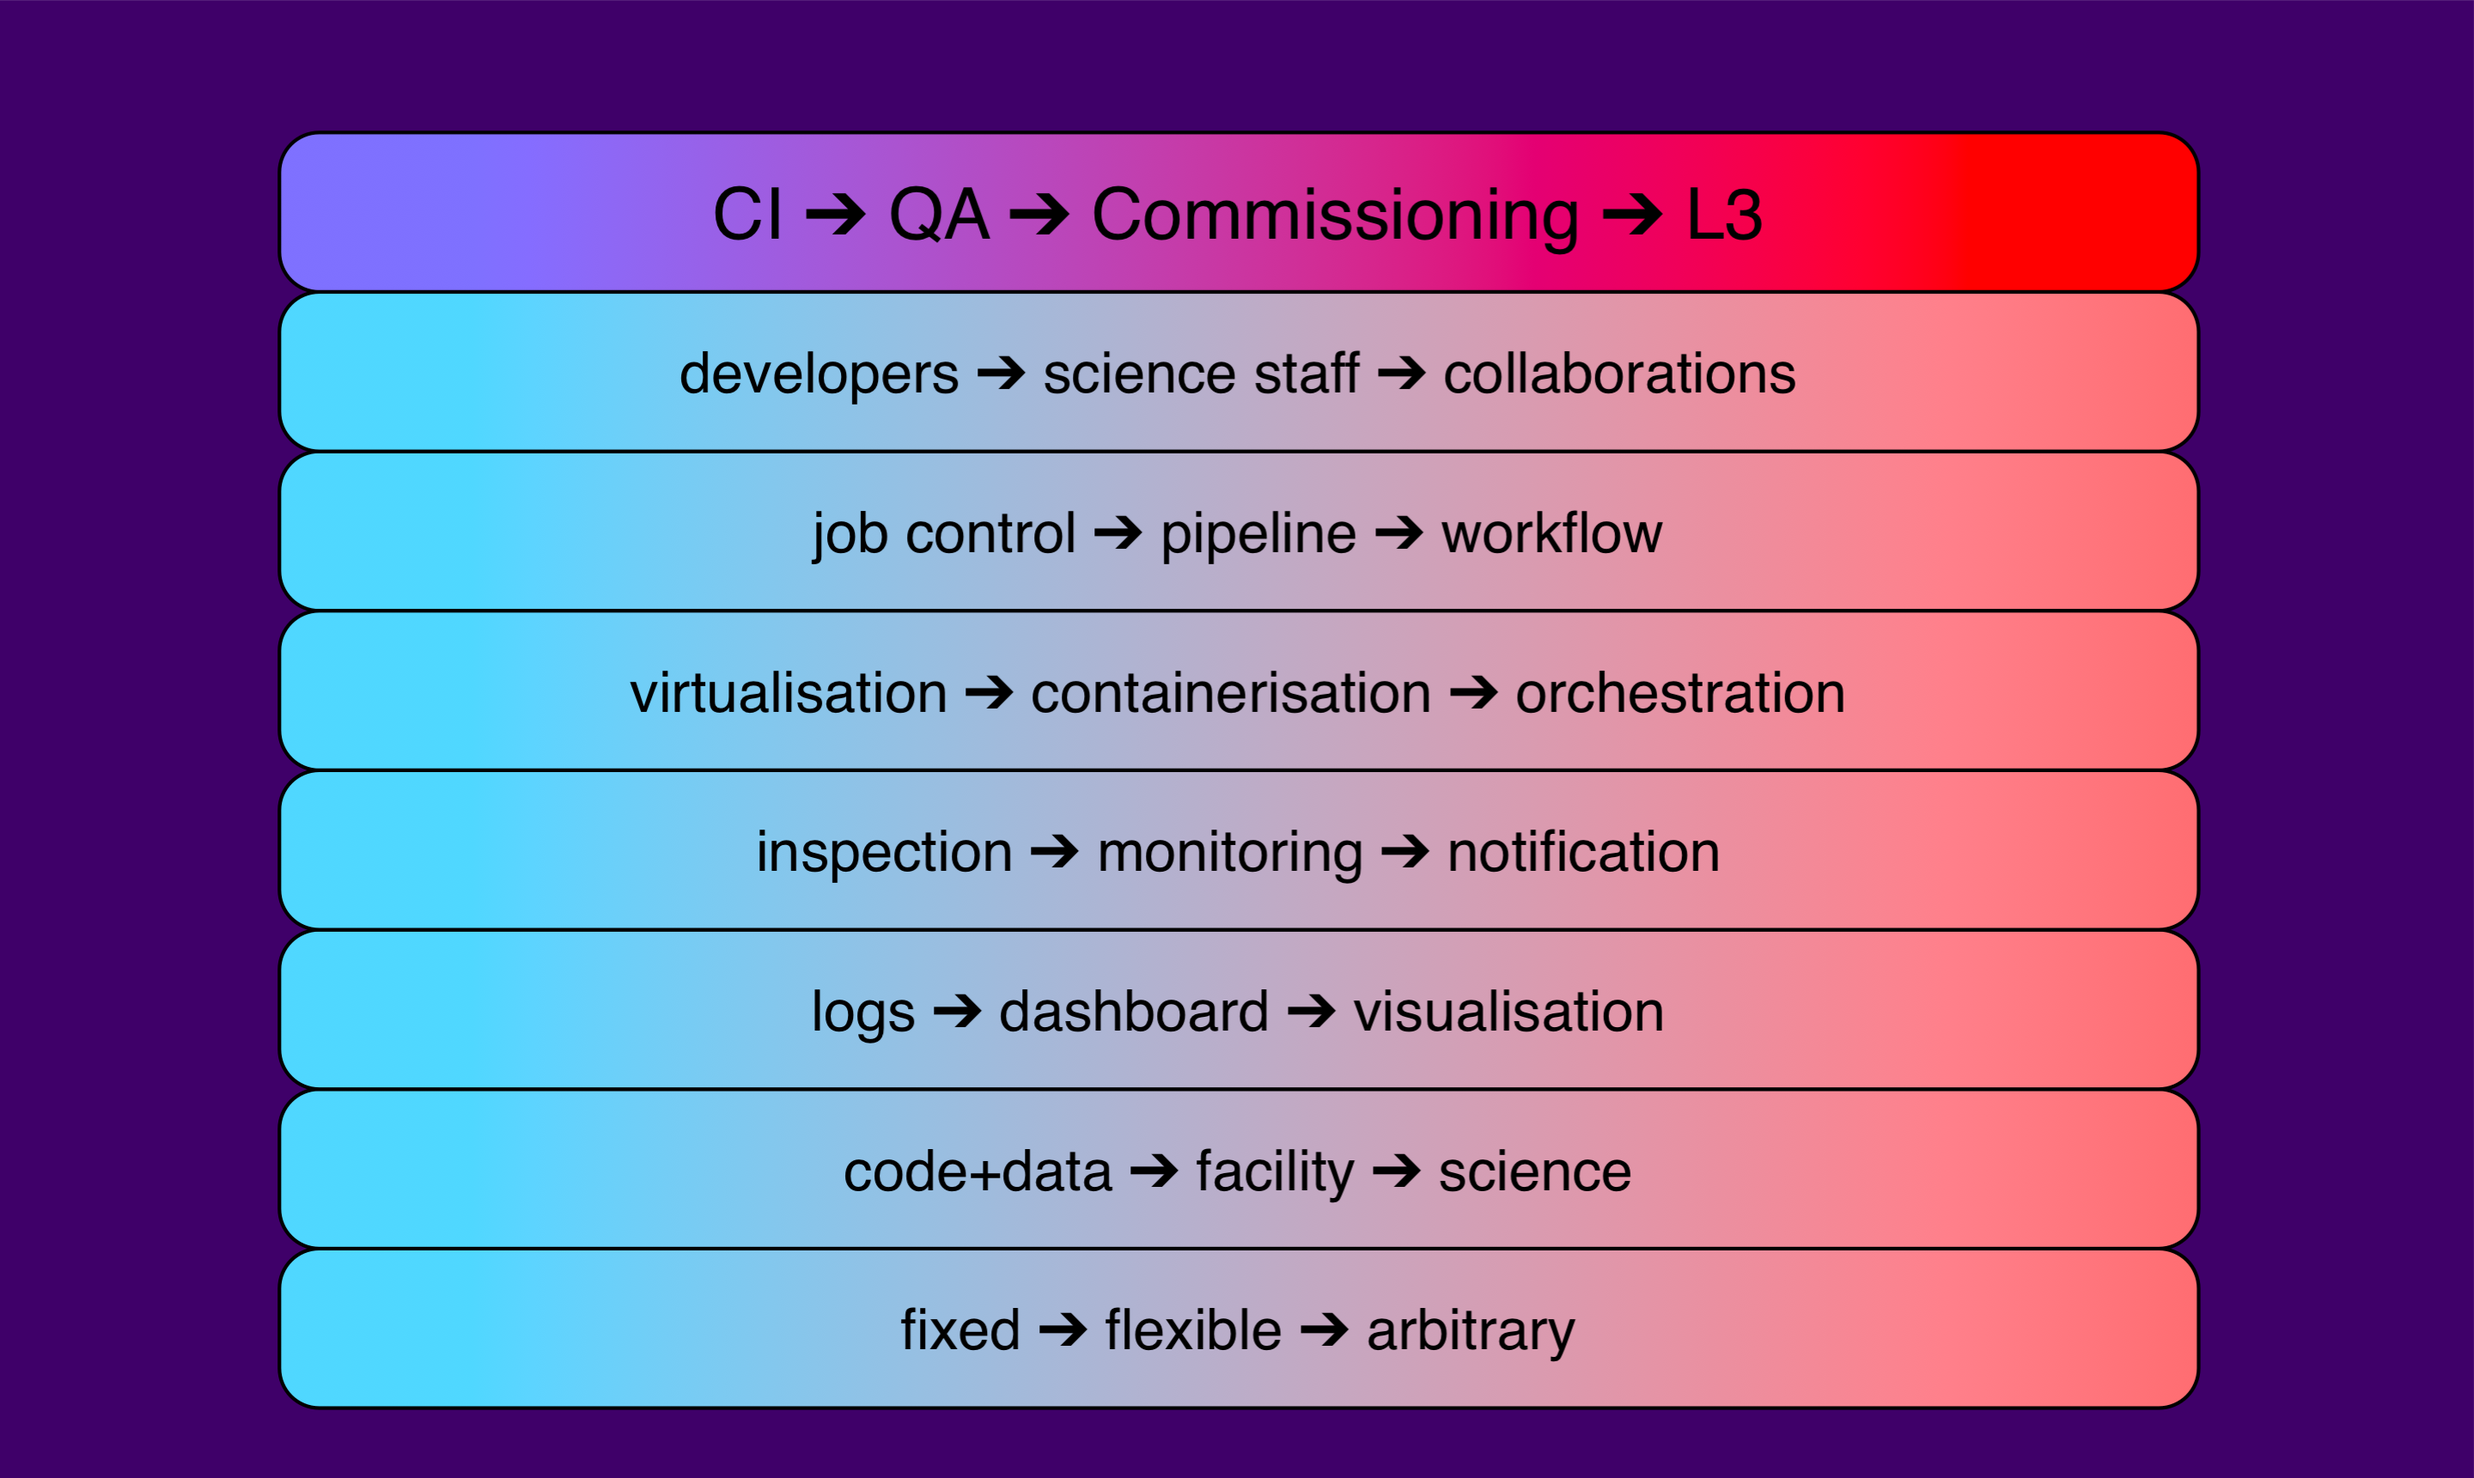
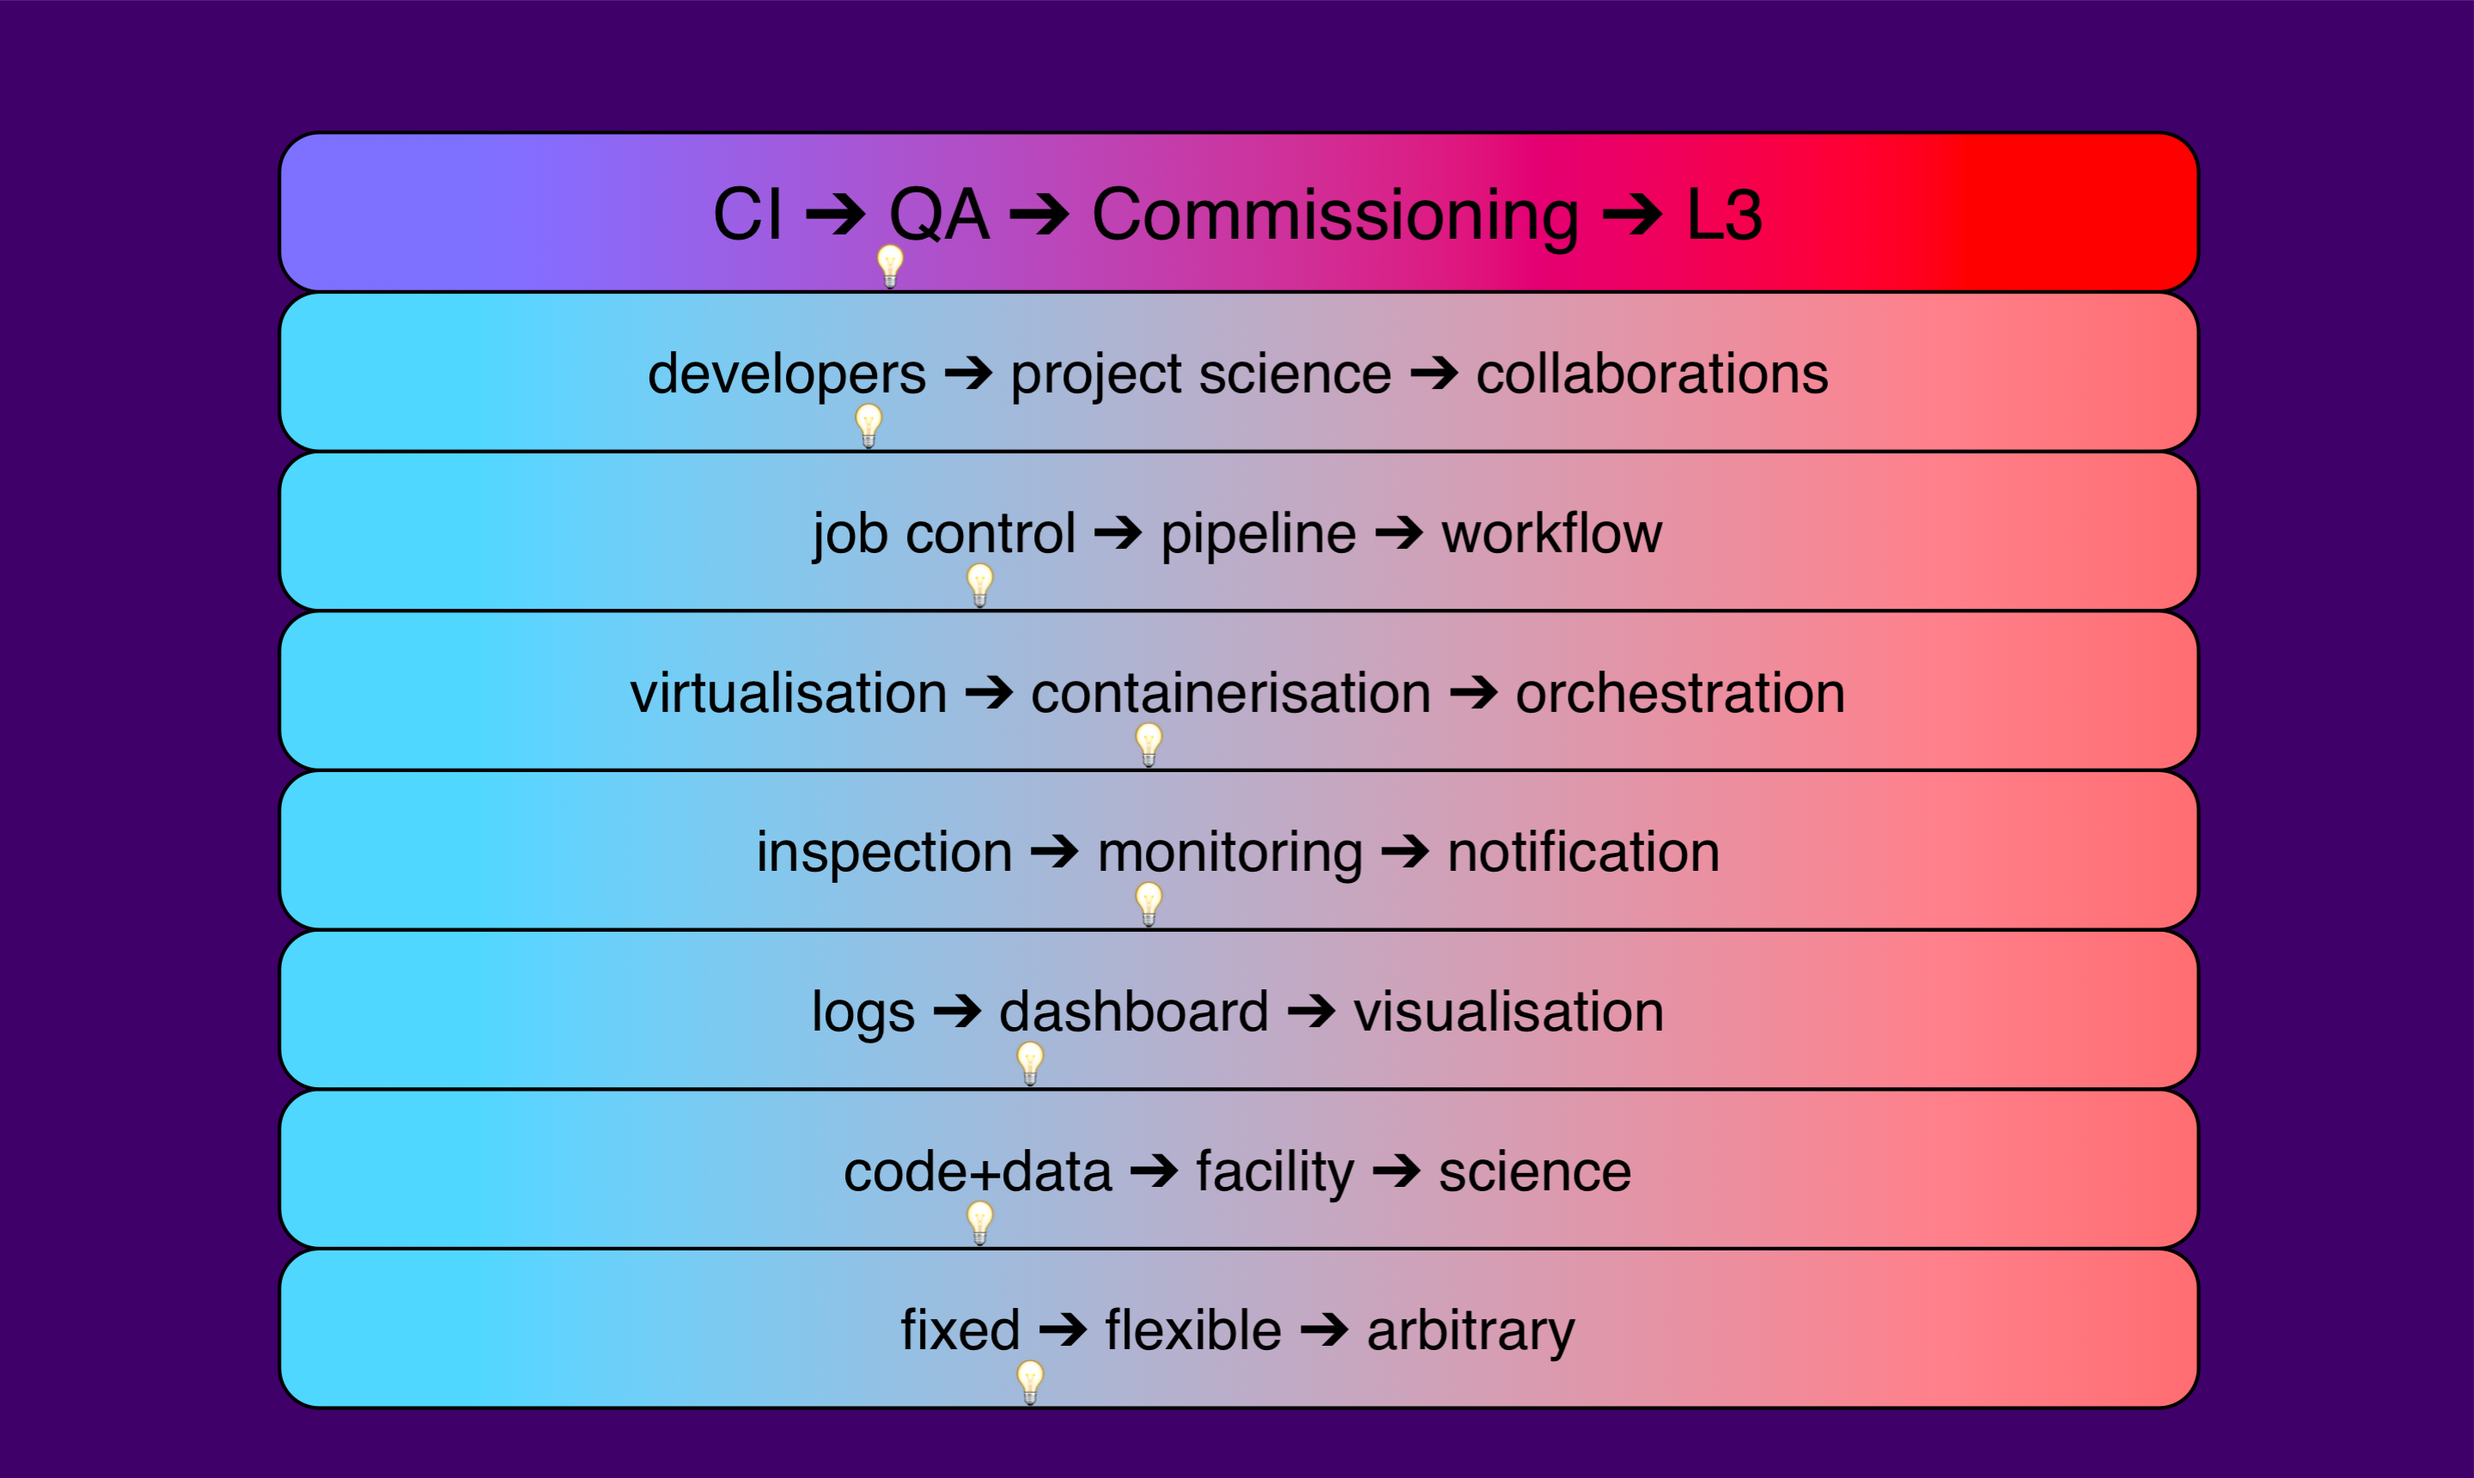
progress indicator

diff --git a/index.rst b/index.rst
@@ -95,6 +95,8 @@ important to note that the evolution left to right is cumulative; the
 previous functionality still exists, but the capabilities of the
 system are expanded.
 
+(The light bulb symbols indicate progression as of end of X16). 
+
 Current Iteration
 =================
 
